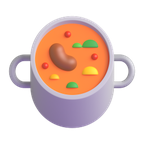
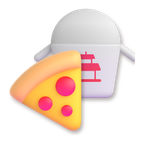
La cabecera del local deja de tapar el nombre; ilustraciones compuestas para Restaurantes y Comida
- Nota, tiempo y envío pasan debajo de la cabecera como pastillas con icono:
  la píldora sobre la foto tapaba el nombre del local.
- Restaurantes: combo hamburguesa + papas + gaseosa. Comida: pizza + caja
  para llevar. Compuestas con tools/procesar-ilustraciones-3d.py --combo.

Claude-Session: https://claude.ai/code/session_01Cez539Kna6zqAwRiozTZ4k

diff --git a/AppCliente/lib/features/businesses/presentation/screens/business_detail_screen.dart b/AppCliente/lib/features/businesses/presentation/screens/business_detail_screen.dart
@@ -241,6 +241,11 @@ class _DetailViewState extends ConsumerState<_DetailView> {
         controller: _scroll,
         slivers: [
           _BusinessAppBar(business: business),
+          // Nota, tiempo y envío DEBAJO de la cabecera, no encima de ella.
+          // Iban en una píldora pegada al borde inferior de la foto, justo
+          // donde se pinta el nombre del local: la píldora tapaba el nombre
+          // («BETO» asomaba por debajo) y ocupaba todo el ancho.
+          SliverToBoxAdapter(child: _InfoRow(business: business)),
           if (!business.isOpen || business.openingHours != null)
             SliverToBoxAdapter(
               child: _StatusBanner(business: business),
@@ -524,26 +529,6 @@ class _BusinessAppBar extends StatelessWidget {
                       ),
                     ),
                   ),
-                  // Info (rating/eta/envío) en píldora clara para que se lea.
-                  Align(
-                    alignment: Alignment.bottomCenter,
-                    child: Padding(
-                      padding: const EdgeInsets.only(
-                        bottom: AppConstants.spacingXL,
-                      ),
-                      child: Container(
-                        padding: const EdgeInsets.symmetric(
-                          horizontal: 12,
-                          vertical: 6,
-                        ),
-                        decoration: BoxDecoration(
-                          color: context.surfaceColor,
-                          borderRadius: BorderRadius.circular(20),
-                        ),
-                        child: _InfoRow(business: business),
-                      ),
-                    ),
-                  ),
                 ],
               )
             // Sin foto, la cabecera es del TEMA y no un tinte claro fijo: en
@@ -561,8 +546,6 @@ class _BusinessAppBar extends StatelessWidget {
                       size: 64,
                       color: business.category.color,
                     ),
-                    const SizedBox(height: AppConstants.spacingS),
-                    _InfoRow(business: business),
                     const SizedBox(height: AppConstants.spacingXL),
                   ],
                 ),
@@ -636,61 +619,80 @@ class _InfoRow extends StatelessWidget {
 
   @override
   Widget build(BuildContext context) {
-    return Row(
-      mainAxisAlignment: MainAxisAlignment.center,
-      children: [
-        // Sin votos no hay estrella ni número: «Nuevo». La nota de fábrica que
-        // enseñaba un 5,0 a todo el mundo se retiró a propósito.
-        if (business.rating == null)
+    // Sin votos no hay estrella ni número: «Nuevo». La nota de fábrica que
+    // enseñaba un 5,0 a todo el mundo se retiró a propósito.
+    final nota = business.rating == null
+        ? 'Nuevo'
+        : business.ratingCount > 0
+            ? '${business.rating!.toStringAsFixed(1)} (${business.ratingCount})'
+            : business.rating!.toStringAsFixed(1);
+    return Padding(
+      padding: const EdgeInsets.fromLTRB(
+        AppConstants.spacingM, AppConstants.spacingM, AppConstants.spacingM, 0,
+      ),
+      // `Wrap` y no `Row`: con una nota larga o letra grande del sistema las
+      // pastillas bajan de renglón en vez de montarse unas sobre otras.
+      child: Wrap(
+        spacing: 8,
+        runSpacing: 8,
+        children: [
+          _Pastilla(
+            icono: Icons.star_rounded,
+            colorIcono: business.rating == null
+                ? context.textSecondaryColor
+                : AppColors.star,
+            texto: nota,
+          ),
+          _Pastilla(
+            icono: Icons.schedule_rounded,
+            texto: '${business.etaMinutes} min',
+          ),
+          _Pastilla(
+            icono: Icons.delivery_dining_rounded,
+            texto: business.deliveryFee == 0
+                ? 'Envío gratis'
+                : 'Envío ${CurrencyFormatter.format(business.deliveryFee)}',
+          ),
+        ],
+      ),
+    );
+  }
+}
+
+class _Pastilla extends StatelessWidget {
+  const _Pastilla({required this.icono, required this.texto, this.colorIcono});
+
+  final IconData icono;
+  final String texto;
+  final Color? colorIcono;
+
+  @override
+  Widget build(BuildContext context) {
+    return Container(
+      padding: const EdgeInsets.symmetric(horizontal: 12, vertical: 7),
+      decoration: BoxDecoration(
+        color: context.cardColor2,
+        borderRadius: BorderRadius.circular(999),
+        border: Border.all(color: context.outlineColor),
+      ),
+      child: Row(
+        mainAxisSize: MainAxisSize.min,
+        children: [
+          Icon(icono, size: 16, color: colorIcono ?? context.textSecondaryColor),
+          const SizedBox(width: 6),
           Text(
-            'Nuevo',
+            texto,
             style: TextStyle(
               fontFamily: 'Inter',
               fontSize: 13,
-              fontWeight: FontWeight.w700,
-              color: context.textSecondaryColor,
-            ),
-          )
-        else ...[
-          const Icon(Icons.star_rounded, color: AppColors.star, size: 16),
-          const SizedBox(width: 2),
-          Text(
-            business.ratingCount > 0
-                ? '${business.rating!.toStringAsFixed(1)} (${business.ratingCount})'
-                : business.rating!.toStringAsFixed(1),
-            style: TextStyle(
-              fontFamily: 'Inter',
-              fontSize: 13,
-              fontWeight: FontWeight.w700,
+              fontWeight: FontWeight.w600,
               color: context.textPrimaryColor,
             ),
           ),
         ],
-        _dot(context),
-        Text(
-          '${business.etaMinutes} min',
-          style: _metaStyle(context),
-        ),
-        _dot(context),
-        Text(
-          'Envío ${CurrencyFormatter.format(business.deliveryFee)}',
-          style: _metaStyle(context),
-        ),
-      ],
+      ),
     );
   }
-
-  TextStyle _metaStyle(BuildContext context) => TextStyle(
-        fontFamily: 'Inter',
-        fontSize: 13,
-        fontWeight: FontWeight.w600,
-        color: context.textPrimaryColor,
-      );
-
-  Widget _dot(BuildContext context) => Padding(
-        padding: const EdgeInsets.symmetric(horizontal: 6),
-        child: Text('•', style: TextStyle(color: context.textSecondaryColor)),
-      );
 }
 
 class _SectionHeader extends StatelessWidget {

diff --git a/tools/procesar-ilustraciones-3d.py b/tools/procesar-ilustraciones-3d.py
@@ -35,11 +35,16 @@ Uso:
     python3 tools/procesar-ilustraciones-3d.py --puerta  ORIGEN/hamburger.png  AppCliente/assets/servicios restaurantes
     python3 tools/procesar-ilustraciones-3d.py           ORIGEN/pill.png       AppCliente/assets/mandados   drogueria
 
+Composiciones (`--combo`, ORIGEN = la carpeta `assets/` de fluentui-emoji;
+las piezas y su colocación están en COMBOS, abajo):
+    python3 tools/procesar-ilustraciones-3d.py --combo --puerta ORIGEN AppCliente/assets/servicios restaurantes
+    python3 tools/procesar-ilustraciones-3d.py --combo          ORIGEN AppCliente/assets/mandados   comida
+
 Los usados hoy:
-    restaurantes  ← Hamburger              (puerta)
+    restaurantes  ← Hamburger + French fries + Cup with straw   (combo, puerta)
+    comida        ← Takeout box + Pizza                          (combo)
     drogueria     ← Pill
     mercado       ← Shopping cart
-    comida        ← Pot of food
     pagos         ← Receipt
     documentos    ← Card index dividers
     compras       ← Shopping bags
@@ -69,8 +74,9 @@ def _centrar(im: Image.Image, margen: float, subir: float = 0.0) -> tuple[Image.
     return im, ox, oy
 
 
-def puerta(src: str) -> Image.Image:
-    im = _recortar(Image.open(src).convert('RGBA'))
+def puerta(src: str | Image.Image) -> Image.Image:
+    base = src if isinstance(src, Image.Image) else Image.open(src)
+    im = _recortar(base.convert('RGBA'))
     rgb, a = im.convert('RGB'), im.getchannel('A')
     rgb = ImageEnhance.Color(rgb).enhance(1.25)
     rgb = ImageEnhance.Contrast(rgb).enhance(1.12)
@@ -104,22 +110,76 @@ def puerta(src: str) -> Image.Image:
 
 
 def categoria(src: str) -> Image.Image:
-    im = _recortar(Image.open(src).convert('RGBA'))
+    return categoria_de(Image.open(src))
+
+
+def categoria_de(base: Image.Image) -> Image.Image:
+    im = _recortar(base.convert('RGBA'))
     im, ox, oy = _centrar(im, margen=0.06)
     out = Image.new('RGBA', (TRABAJO, TRABAJO), (0, 0, 0, 0))
     out.alpha_composite(im, (ox, oy))
     return out
 
 
+# COMPOSICIONES. Una pieza suelta (la hamburguesa, la olla) se veía «muy
+# simple» al lado del taxi, la moto y la buseta, que son escenas con varios
+# elementos. Se arman de varias piezas de Fluent, de atrás hacia adelante:
+# (carpeta de Fluent, alto, centro x, base y), en fracción del lienzo.
+COMBOS = {
+    # El combo de comida rápida: se lee «restaurante» de un vistazo.
+    'restaurantes': [
+        ('French fries', 0.58, 0.28, 0.70),
+        ('Cup with straw', 0.66, 0.73, 0.70),
+        ('Hamburger', 0.62, 0.50, 0.95),
+    ],
+    # «Te traemos comida»: pizza y caja para llevar. No pollo con papas, que
+    # se leía muy bien pero repetía las papas del combo en la misma pantalla.
+    'comida': [
+        ('Takeout box', 0.62, 0.66, 0.72),
+        ('Pizza', 0.56, 0.38, 0.95),
+    ],
+}
+
+
+def combo(nombre: str, origen: str) -> Image.Image:
+    import glob
+    out = Image.new('RGBA', (TRABAJO, TRABAJO), (0, 0, 0, 0))
+    for carpeta, alto, cx, base in COMBOS[nombre]:
+        rutas = glob.glob(os.path.join(origen, carpeta, '3D', '*.png'))
+        if not rutas:
+            sys.exit(f'Falta {carpeta}/3D en {origen}')
+        im = _recortar(Image.open(rutas[0]).convert('RGBA'))
+        h = int(TRABAJO * alto)
+        w = int(im.size[0] * h / im.size[1])
+        im = im.resize((w, h), Image.LANCZOS)
+        x, y = int(TRABAJO * cx - w / 2), int(TRABAJO * base - h)
+        # Sombra suave de cada pieza sobre la de atrás: separa los planos y
+        # evita que la composición se lea como un recorte pegado.
+        sombra = Image.new('L', (TRABAJO, TRABAJO), 0)
+        sombra.paste(im.getchannel('A'), (x + int(TRABAJO * 0.012), y + int(TRABAJO * 0.018)))
+        sombra = sombra.filter(ImageFilter.GaussianBlur(TRABAJO * 0.012)).point(lambda a: int(a * 0.35))
+        capa = Image.new('RGBA', (TRABAJO, TRABAJO), (40, 20, 10, 255))
+        capa.putalpha(sombra)
+        out.alpha_composite(capa)
+        out.alpha_composite(im, (x, y))
+    return out
+
+
 def main() -> None:
     args = sys.argv[1:]
     es_puerta = '--puerta' in args
-    args = [a for a in args if a != '--puerta']
+    es_combo = '--combo' in args
+    args = [a for a in args if a not in ('--puerta', '--combo')]
     if len(args) != 3:
         print(__doc__)
         sys.exit(2)
     src, carpeta, nombre = args
-    out = puerta(src) if es_puerta else categoria(src)
+    if es_combo:
+        # `src` es la carpeta `assets/` del repositorio de Fluent.
+        compuesta = combo(nombre, src)
+        out = puerta(compuesta) if es_puerta else categoria_de(compuesta)
+    else:
+        out = puerta(src) if es_puerta else categoria(src)
     # La puerta se pinta a 64 lógicos; la categoría, a 44.
     base = 64 if es_puerta else 48
     for sub, f in (('', 1), ('2.0x', 2), ('3.0x', 3)):

diff --git a/CLAUDE.md b/CLAUDE.md
@@ -346,6 +346,8 @@ También HECHO (La sesión que se cerraba al volver de otra app + adiciones al c
 
 También HECHO (Carta que se lee entera + entrar con Google/Apple + el panel admin deja de aceptar la llave de la app): reporte del usuario con dos capturas de la app web. **(1) «No se ve todo lo que trae el producto».** Las cartas leídas de una foto meten los ingredientes DENTRO del nombre, la fila lo cortaba a dos renglones y la hoja del producto a tres — con un comentario que decía que «el nombre completo está en la lista», que lo cortaba. No se veía en NINGUNA parte. `partirNombrePlato` (Dart `nombre_plato.dart` + TS `app/carta/reglas.ts`, probadas con la MISMA tabla `app/carta/nombre-plato-casos.json` desde los dos lados) separa «Título: lo que trae» y «Plato (a, b, c)»; solo si el dueño no escribió descripción, y «Empanadas (3)» no se parte (sin coma no es una lista, es cuántas trae). La hoja pinta el título sin tope y el detalle con «Ver más». **(2) «La barra de secciones no se desplaza».** El chip activo se iba de la pantalla: ahora la fila se construye entera y se centra con `ScrollPosition.ensureVisible` de la PROPIA barra (no `Scrollable.ensureVisible`, que también movería la carta y pelearía con el dedo); prueba de widget comprobando que el chip 15 de 20 queda a la vista. La carta del QR ya lo hacía. **(3) Dos defectos de contraste vistos en las capturas**: el nombre del local salía BLANCO sobre la barra clara al plegar la cabecera («Mon Delice» invisible) → se interpola del blanco al color del tema según lo abierta; y el verde de marca como LETRA (precios, «Agregar») daba 2,24:1 → `AppColors.primaryTexto` #007A33 (5,48) vía `context.primaryTextColor`, que en oscuro sigue usando el de marca (8,37). **(4) «Cualquiera con un número entra».** Cierto: sin SMS, `OTP_FALLBACK_CODE` es una llave maestra que conoce todo probador. **Entrar con Google y Apple** (cliente): `lib/id-token.ts` verifica el JWT con `crypto` de Node (SOLO RS256 —ni `none` ni HS256 con la llave pública—, emisor, audiencia obligatoria, vencimiento con 60 s de holgura) y `acceso-social.service.ts` aplica las reglas de cuenta: **se entra por el `sub`, NUNCA por el correo** (si no, poner el correo de otra persona en tu perfil y esperar a que entre con Google la metería en tu cuenta), la cuenta nueva nace SIN teléfono (`User.phone` pasó a nullable + `googleSub`/`appleSub` únicos, migración `20261018120000_acceso_google_apple`), el correo verificado se guarda solo si está libre, la cuenta borrada no se reabre y el borrado suelta los dos `sub`. Rutas `GET /client/auth/providers`, `POST /client/auth/{google,apple}`, `POST /client/auth/apple/callback` (reenvía a `intent://` para Android), `GET /client/auth/linked`, `POST /client/auth/link/:proveedor`; `/health` += `accesoSocial`. App: `google_sign_in ^7.2.0` (+ `google_sign_in_web`, cuyo `renderButton` se importa condicionalmente: en la web el botón lo dibuja Google y se muestra SOLO tras marcar los términos, porque no se puede deshabilitar) y `sign_in_with_apple ^8.0.0` (actividad `SignInWithAppleCallback` en el manifiesto + script de Apple en `web/index.html`). **Todo apagado sin variables**: los botones solo aparecen si el backend los anuncia. Guía: **`docs/ACTIVAR_GOOGLE_APPLE.md`**. **(5) HALLAZGO GRAVE: el panel admin aceptaba la MISMA llave maestra** — cualquier probador con el número de un admin entraba al panel. `ADMIN_OTP_CODE` (distinto del de la app; uno igual no cuenta) y `/health` dice `otpAdmin: llave-maestra-COMPARTIDA-con-la-app` mientras falte. Verificado: typecheck + **1733 pruebas** (id-token 20 —cada falsificación probada con llaves RSA generadas—, reglas de cuenta 14 contra una base en memoria, admin 4; la regla del correo y la del admin comprobadas ROMPIÉNDOLAS), web tsc + next build. **SIN E2E contra PostgreSQL**: el motor de Prisma no se pudo bajar en esta sesión. **PENDIENTE**: la app del conductor y los portales (`/empresa`, recuperación de `/negocio`) siguen entrando SOLO con la llave maestra; la pantalla de Cuenta del cliente aún no ofrece «vincular Google» (la ruta existe); y nada de Google se ve hasta crear los clientes OAuth y poner `GOOGLE_OAUTH_CLIENT_IDS`.
 
+También HECHO (Cabecera del local y las ilustraciones de comida): dos capturas del usuario. **(1) La píldora «Nuevo · 30 min · Envío» tapaba el nombre del local**: iba pegada al borde inferior de la foto, justo donde `FlexibleSpaceBar` pinta el título, y ocupaba todo el ancho («BETO» asomaba por debajo). Ahora va DEBAJO de la cabecera, como pastillas con icono en un `Wrap` (con letra grande bajan de renglón en vez de montarse), y «Envío gratis» cuando la tarifa es cero. **(2) Restaurantes y Comida «muy simples»**: una pieza suelta de Fluent al lado del taxi, la moto y la buseta —que son escenas— se veía pobre. `tools/procesar-ilustraciones-3d.py --combo` compone varias piezas (tabla `COMBOS`, con sombra suave entre planos): Restaurantes = hamburguesa + papas + gaseosa (con el contorno de puerta), Comida = pizza + caja para llevar (no pollo con papas: repetía las papas del combo en la misma pantalla). Elegidas en hojas de comparación al lado de sus vecinas, no a ciegas.
+
 **⚠ LOS SUBDOMINIOS DEL HOSTING NO SIRVEN PARA VERIFICAR EL NEGOCIO EN META.** La verificación rechaza `nexum-store.vercel.app` con «No puedes verificar tu negocio con un dominio de sitio web común»: `vercel.app` y `onrender.com` son compartidos, no del negocio. **Un solo dominio propio desbloquea cuatro cosas** —verificación de Meta, política de privacidad de Play, canal de atención al titular (Ley 1581) y poder mudarse de hosting sin romper enlaces ya registrados—. Todo en `docs/DOMINIO_Y_CORREOS.md`. **Y sobre el webhook de WhatsApp**: el saludo de verificación (GET) y el POST del botón «Probar» de Meta SÍ llegan a Render, con `messages` suscrito — o sea que URL, firma y nuestro código están bien; lo que falta es publicar la app (Desarrollo → En vivo), que es lo que exige la verificación. **REGLA DE MÉTODO, pagada dos veces: no describir menús de la consola de Meta de memoria.** Leer las capturas del usuario.
 
 ~~**⚠ BLOQUEANTE FÍSICO PARA SUBIR A PLAY (2026-09-28):** falta el `google-services.json` de `com.zipa.*` y no hay APK~~ **YA NO, medido el 2026-10-11**: el paso «Decode google-services.json» de los dos workflows pasa y los dos APK salen en verde — los secrets `GOOGLE_SERVICES_CLIENTE_BASE64` y `GOOGLE_SERVICES_BASE64` ya tienen los paquetes nuevos. La nota se quedó obsoleta y, de haberla creído, habría reportado como bloqueante algo resuelto: **al retomar un PENDIENTE hay que medirlo, y aquí se mide mirando el último run de «Build ZIPA Cliente/Conductor APK», no el repo** (el `.json` no se versiona, está en `.gitignore` a propósito).
